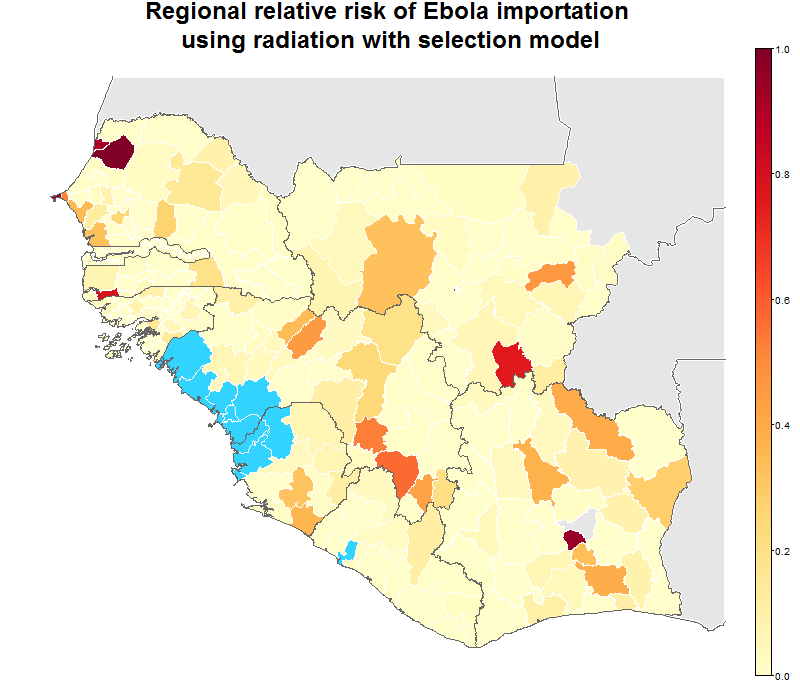
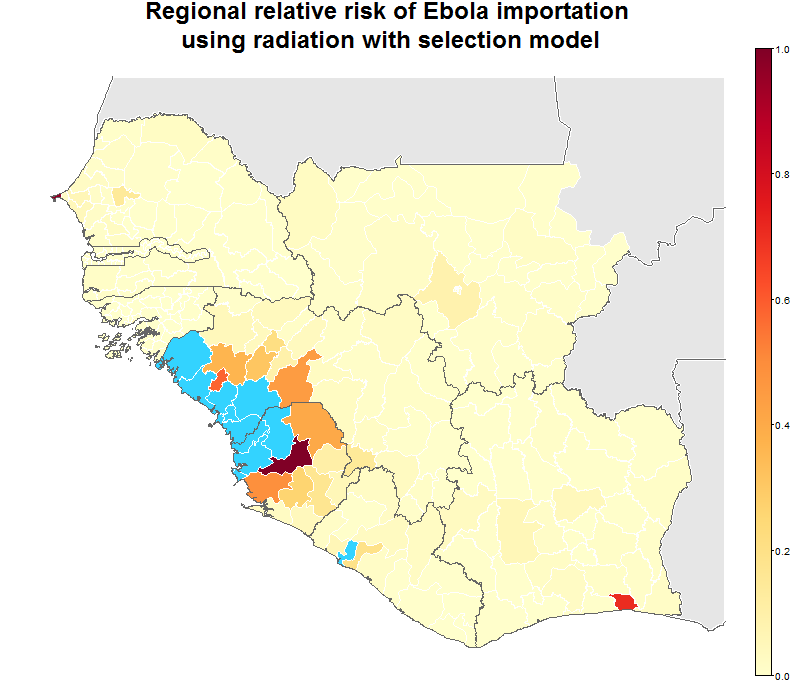
Fix maps by using correctly formatted movement data

diff --git a/local-risk.md b/local-risk.md
@@ -11,9 +11,7 @@ The aim of this analysis is to produce a regional, district level metric of the 
 
 [Risk-doc]: http://seeg-oxford.github.io/ebola-spread/local-risk-doc
 
-### Latest data as of 26 March 2015
-
-#### Note: The Bélier and Moronou regions of Côte d'Ivoire are currently being predicted incorrectly, hence the gray region in that area. This is being corrected.
+### Latest data as of 30 March 2015
 
 <a href="images/regional_prediction_radsel_france_large.png"><img src="images/regional_prediction_radsel_france.png" /></a>
 Predicted relative risk of importation of EVD cases from districts with reported cases in the last <b>21</b> days using the radiation with selection model. Dark red indicates higher risk of importation. Note that this does not represent a prediction of the number of new cases being reported in the future. Districts with reported cases are coloured blue to prevent skew.
